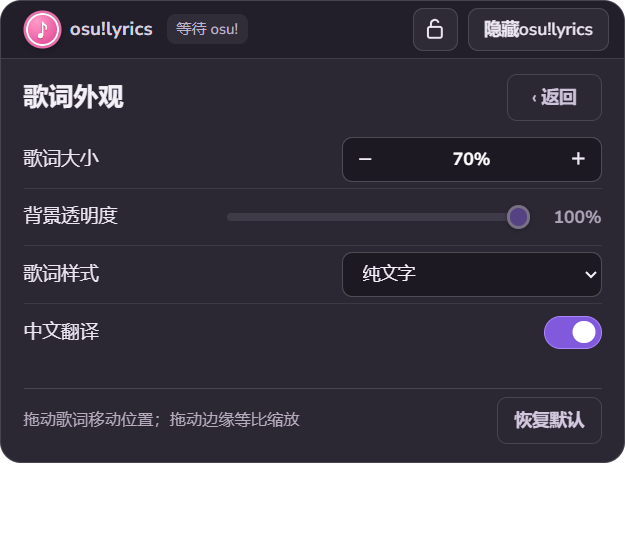
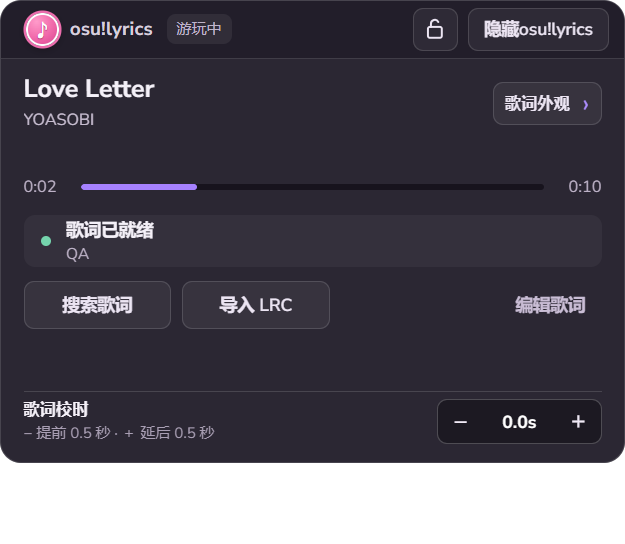
Expand lyric appearance controls

diff --git a/src/ui/combined.css b/src/ui/combined.css
@@ -18,6 +18,11 @@
   --surface-raised: #37313f;
   --border: #ffffff23;
   --muted: #c7bdd0;
+  --original-color: #fff;
+  --translation-color: #fff;
+  --background-rgb: 31, 27, 40;
+  --lyric-shadow: none;
+  --lyric-font: "Torus", "Nunito Sans", "Microsoft YaHei UI", "Segoe UI", sans-serif;
 }
 
 * { box-sizing: border-box; }
@@ -184,8 +189,16 @@ button:focus-visible, input:focus-visible, select:focus-visible { outline: 2px s
 .view-heading { height: 42px; display: flex; align-items: center; justify-content: space-between; }
 .view-heading h1 { order: -1; margin: 0; font-size: 22px; line-height: 1.2; font-weight: 720; }
 .back-button { min-width: 76px; padding: 0 12px; background: transparent; color: #cfc3db; }
+.style-view .view-heading { height: 38px; min-height: 38px; }
+.appearance-tabs { height: 34px; min-height: 34px; display: flex; gap: 4px; margin-top: 8px; border-bottom: 1px solid var(--border); }
+.appearance-tabs button { position: relative; height: 33px; padding: 0 15px; border: 0; background: transparent; color: #aea2ba; font-size: 14px; font-weight: 600; }
+.appearance-tabs button:hover { color: #f4f0f8; }
+.appearance-tabs button[aria-selected="true"] { color: #fff; }
+.appearance-tabs button[aria-selected="true"]::after { content: ""; position: absolute; bottom: -1px; left: 10px; right: 10px; height: 2px; border-radius: 2px; background: var(--accent); }
 .settings-list { margin-top: 14px; }
+.style-view .settings-list { min-height: 0; flex: 1; display: flex; flex-direction: column; margin-top: 8px; }
 .setting-row { min-height: 54px; display: grid; grid-template-columns: minmax(148px, 1fr) minmax(270px, 300px); align-items: center; gap: 12px; border-bottom: 1px solid #ffffff16; }
+.style-view .setting-row { min-height: 46px; flex: 1; }
 .setting-row:last-child { border-bottom: 0; }
 .setting-row > label { color: #ece5f3; font-size: 15px; line-height: 20px; font-weight: 500; }
 .setting-control { min-width: 0; display: flex; align-items: center; justify-content: flex-end; }
@@ -197,6 +210,14 @@ button:focus-visible, input:focus-visible, select:focus-visible { outline: 2px s
 .range-control output { min-width: 43px; color: #f5effa; font-size: 14px; font-weight: 700; text-align: right; font-variant-numeric: tabular-nums; }
 .range-control input:disabled + output { color: #ada3b8; }
 .setting-control select { width: 208px; height: 36px; padding: 0 34px 0 12px; border: 1px solid #ffffff38; border-radius: 8px; background: #1c1922; color: #f5effa; font-size: 14px; cursor: pointer; }
+.color-control { gap: 9px; }
+.color-control input[type="color"] { width: 42px; height: 36px; padding: 3px; border: 1px solid #ffffff38; border-radius: 8px; background: #1c1922; cursor: pointer; }
+.color-control input[type="color"]::-webkit-color-swatch-wrapper { padding: 0; }
+.color-control input[type="color"]::-webkit-color-swatch { border: 0; border-radius: 5px; }
+.color-control output { min-width: 70px; color: #c9bfd2; font-size: 13px; text-align: right; font-variant-numeric: tabular-nums; }
+.color-control button { height: 32px; min-width: 47px; padding: 0 8px; border: 1px solid var(--border); border-radius: 7px; background: transparent; color: #ddd3e7; font-size: 12px; }
+.color-control button:hover:not(:disabled) { border-color: #aa87ff; background: #ffffff18; }
+.color-control button:disabled { visibility: hidden; }
 .switch { width: 52px; height: 36px; display: flex; align-items: center; justify-content: flex-end; position: relative; cursor: pointer; }
 .switch input { position: absolute; inset: 0; width: 100%; height: 100%; margin: 0; opacity: 0; cursor: pointer; }
 .switch-track { width: 46px; height: 26px; position: relative; border: 1px solid #ffffff50; border-radius: 20px; background: #504858; pointer-events: none; transition: background .13s ease, border-color .13s ease; }
@@ -205,6 +226,7 @@ button:focus-visible, input:focus-visible, select:focus-visible { outline: 2px s
 .switch input:checked + .switch-track::after { transform: translateX(18px); background: #fff; }
 .switch input:focus-visible + .switch-track { outline: 2px solid #d7c5ff; outline-offset: 3px; }
 .style-footer { min-height: 48px; display: flex; align-items: center; justify-content: space-between; gap: 12px; margin-top: auto; padding-top: 9px; border-top: 1px solid var(--border); }
+.style-view .style-footer { min-height: 44px; padding-top: 7px; }
 .style-footer span { color: #b7abbe; font-size: 13px; line-height: 18px; }
 .style-footer button { flex: none; padding: 0 13px; background: transparent; color: #d5c9e0; }
 
@@ -241,24 +263,26 @@ button:focus-visible, input:focus-visible, select:focus-visible { outline: 2px s
 .panel-surface.compact .offset-row { min-height: 42px; padding-top: 6px; }
 .panel-surface.compact .view-heading { height: 38px; }
 .panel-surface.compact .view-heading h1 { font-size: 20px; }
-.panel-surface.compact .settings-list { margin-top: 8px; }
-.panel-surface.compact .setting-row { min-height: 46px; }
+.panel-surface.compact .style-view .view-heading { height: 34px; min-height: 34px; }
+.panel-surface.compact .appearance-tabs { height: 32px; min-height: 32px; margin-top: 6px; }
+.panel-surface.compact .appearance-tabs button { height: 31px; }
+.panel-surface.compact .style-view .settings-list { margin-top: 6px; }
+.panel-surface.compact .style-view .setting-row { min-height: 42px; }
 .panel-surface.compact .style-footer { min-height: 42px; padding-top: 6px; }
 .panel-surface.compact .candidate-list { margin-top: 8px; gap: 3px; }
 .panel-surface.compact .candidate { padding: 4px 10px; }
 
-.lyric-box { position: absolute; display: flex; flex-direction: column; align-items: center; justify-content: center; gap: 2px; padding: 3px 13px; border-radius: 15px; background: transparent; text-align: center; user-select: none; touch-action: none; }
+.lyric-box { position: absolute; display: flex; flex-direction: column; align-items: center; justify-content: center; gap: 2px; padding: 3px 13px; border-radius: 15px; background: transparent; font-family: var(--lyric-font); text-align: center; user-select: none; touch-action: none; transition: padding-left .16s ease; }
+.lyric-box.with-toggle { padding-left: 56px; }
+.lyric-box.align-left { align-items: flex-start; text-align: left; }
+.lyric-box.align-right { align-items: flex-end; text-align: right; }
 .lyric-box.locked { cursor: pointer; }
 .lyric-box.unlocked { cursor: move; }
 .lyric-box.editing { background: rgba(31, 27, 40, .38); outline: 1px dashed #aa88ff9c; outline-offset: -2px; }
-.lyric-box.editing.theme-glass { background: rgba(31, 27, 40, var(--opacity)); }
-.lyric-box.editing.theme-contrast { background: rgba(0, 0, 0, var(--opacity)); }
+.lyric-box.editing.theme-glass, .lyric-box.editing.theme-contrast { background: rgba(var(--background-rgb), var(--opacity)); }
 .original, .translation { max-width: 100%; flex-shrink: 0; white-space: normal; overflow-wrap: anywhere; overflow: visible; text-overflow: clip; }
-.original { color: #fff; font-size: calc(25px * var(--lyric-scale)); line-height: 1.3; font-weight: 800; text-shadow: 0 1px 2px #0009; }
-.translation { color: #fff; font-size: calc(16px * var(--lyric-scale)); line-height: 1.25; font-weight: 600; text-shadow: 0 1px 2px #0009; }
-.theme-plain .original, .theme-plain .translation { text-shadow: none; }
-.theme-glass .translation { color: #ffddee; }
-.theme-contrast .translation { color: #fff; }
+.original { color: var(--original-color); font-size: calc(25px * var(--lyric-scale)); line-height: 1.3; font-weight: 800; text-shadow: var(--lyric-shadow); }
+.translation { color: var(--translation-color); font-size: calc(16px * var(--lyric-scale)); line-height: 1.25; font-weight: 600; text-shadow: var(--lyric-shadow); }
 .resize-handles { display: none; }
 .lyric-box.editing.unlocked .resize-handles { display: block; }
 .resize-handle { position: absolute; width: 11px; height: 11px; border: 2px solid #f1e8ff; border-radius: 4px; background: #8c66ff; box-shadow: 0 0 0 2px #2d243b, 0 0 9px #8c66ff99; z-index: 4; }

diff --git a/src/ui/combined.js b/src/ui/combined.js
@@ -3,7 +3,7 @@ const $ = id => document.getElementById(id);
 let state = { connected: false, song: null, positionMs: 0, sampledAt: Date.now(), playing: false };
 let lyrics = { status: 'idle', lines: [], candidates: [], offsetMs: 0 };
 let tosu = { status: 'disconnected', installed: false };
-let settings = { scale: 100, width: 700, opacity: 0, theme: 'plain', showTranslation: true };
+let settings = { scale: 100, width: 700, opacity: 0, theme: 'plain', showTranslation: true, originalColor: null, translationColor: null, backgroundColor: null, fontStyle: 'osu', textEffect: 'auto', alignment: 'center' };
 let locked = false;
 let shown = true;
 let panelOpen = true;
@@ -15,6 +15,7 @@ let editing = false;
 let gesture = null;
 let suppressClick = false;
 let view = 'normal';
+let appearanceTab = 'basic';
 let candidatePage = 0;
 let showCandidatesAfterSearch = false;
 let measureQueued = false;
@@ -81,6 +82,12 @@ function renderCollapsedToggle() {
   if (!currentLayout) return;
   const dot = $('collapsedToggle');
   const animation = currentLayout.animation;
+  const reserveSpace = activeVisible && (animation ? animation.progress <= .5 : currentLayout.progress === 0);
+  if ($('lyricBox').classList.contains('with-toggle') !== reserveSpace) {
+    $('lyricBox').classList.toggle('with-toggle', reserveSpace);
+    queueLyricMeasure();
+    setTimeout(queueLyricMeasure, 190);
+  }
   const position = animation?.dot || { x: currentLayout.lyric.x + 16, y: currentLayout.lyric.y + 3 };
   dot.style.left = `${position.x}px`;
   dot.style.top = `${position.y}px`;
@@ -165,10 +172,32 @@ function renderControls() {
 }
 
 function renderStyle() {
-  document.documentElement.style.setProperty('--lyric-scale', String(settings.scale / 100));
-  document.documentElement.style.setProperty('--opacity', String(settings.opacity / 100));
-  $('lyricBox').classList.remove('theme-plain', 'theme-glass', 'theme-contrast');
-  $('lyricBox').classList.add(`theme-${settings.theme}`);
+  const root = document.documentElement.style;
+  root.setProperty('--lyric-scale', String(settings.scale / 100));
+  root.setProperty('--opacity', String(settings.opacity / 100));
+  const originalColor = settings.originalColor || '#ffffff';
+  const translationColor = settings.translationColor || (settings.theme === 'glass' ? '#ffddee' : '#ffffff');
+  const backgroundColor = settings.backgroundColor || (settings.theme === 'contrast' ? '#000000' : '#1f1b28');
+  root.setProperty('--original-color', originalColor);
+  root.setProperty('--translation-color', translationColor);
+  root.setProperty('--background-rgb', [1, 3, 5].map(index => parseInt(backgroundColor.slice(index, index + 2), 16)).join(', '));
+  const fonts = {
+    osu: '"Torus", "Nunito Sans", "Microsoft YaHei UI", "Segoe UI", sans-serif',
+    clean: '"Segoe UI Variable", "Segoe UI", "Microsoft YaHei UI", sans-serif',
+    serif: 'Georgia, "Yu Mincho", SimSun, serif',
+  };
+  root.setProperty('--lyric-font', fonts[settings.fontStyle] || fonts.osu);
+  const effects = {
+    auto: settings.theme === 'plain' ? 'none' : '0 1px 2px #0009',
+    none: 'none',
+    outline: '1px 0 0 #000b, -1px 0 0 #000b, 0 1px 0 #000b, 0 -1px 0 #000b',
+    shadow: '0 2px 5px #000c',
+  };
+  root.setProperty('--lyric-shadow', effects[settings.textEffect] || effects.auto);
+  const box = $('lyricBox');
+  box.classList.remove('theme-plain', 'theme-glass', 'theme-contrast', 'align-left', 'align-right');
+  box.classList.add(`theme-${settings.theme}`);
+  if (settings.alignment !== 'center') box.classList.add(`align-${settings.alignment}`);
   $('translation').hidden = !settings.showTranslation || !$('translation').textContent;
   $('scaleValue').textContent = `${settings.scale}%`;
   const transparency = 100 - settings.opacity;
@@ -178,6 +207,15 @@ function renderStyle() {
   $('opacityRange').disabled = settings.theme === 'plain';
   $('themeSelect').value = settings.theme;
   $('translationToggle').checked = settings.showTranslation;
+  for (const [name, fallback] of [['originalColor', originalColor], ['translationColor', translationColor], ['backgroundColor', backgroundColor]]) {
+    $(name).value = settings[name] || fallback;
+    $(`${name}Value`).textContent = settings[name] ? settings[name].toUpperCase() : '默认';
+    $(`${name}Default`).disabled = !settings[name];
+  }
+  $('backgroundColor').disabled = settings.theme === 'plain';
+  $('fontStyleSelect').value = settings.fontStyle;
+  $('textEffectSelect').value = settings.textEffect;
+  $('alignmentSelect').value = settings.alignment;
   queueLyricMeasure();
 }
 
@@ -186,6 +224,14 @@ function setView(next) {
   $('normalView').hidden = next !== 'normal';
   $('styleView').hidden = next !== 'style';
   $('candidateView').hidden = next !== 'candidates';
+}
+
+function setAppearanceTab(next) {
+  appearanceTab = next;
+  for (const name of ['basic', 'colors', 'typography']) {
+    $(`${name}Tab`).setAttribute('aria-selected', String(name === next));
+    $(`${name}Settings`).hidden = name !== next;
+  }
 }
 
 function renderCandidates() {
@@ -383,7 +429,17 @@ $('lockButton').addEventListener('click', () => api.overlayLock(!locked));
 $('visibilityButton').addEventListener('click', () => api.overlayShow(false));
 $('styleButton').addEventListener('click', () => setView('style'));
 $('backStyle').addEventListener('click', () => setView('normal'));
-$('resetStyle').addEventListener('click', () => api.updateOverlaySettings({ scale: 100, width: 700, opacity: 0, theme: 'plain', showTranslation: true, resetLayout: true }));
+$('resetStyle').addEventListener('click', () => api.updateOverlaySettings({ scale: 100, width: 700, opacity: 0, theme: 'plain', showTranslation: true, originalColor: null, translationColor: null, backgroundColor: null, fontStyle: 'osu', textEffect: 'auto', alignment: 'center', resetLayout: true }));
+$('basicTab').addEventListener('click', () => setAppearanceTab('basic'));
+$('colorsTab').addEventListener('click', () => setAppearanceTab('colors'));
+$('typographyTab').addEventListener('click', () => setAppearanceTab('typography'));
+for (const name of ['originalColor', 'translationColor', 'backgroundColor']) {
+  $(name).addEventListener('input', event => api.updateOverlaySettings({ [name]: event.target.value }));
+  $(`${name}Default`).addEventListener('click', () => api.updateOverlaySettings({ [name]: null }));
+}
+$('fontStyleSelect').addEventListener('change', event => api.updateOverlaySettings({ fontStyle: event.target.value }));
+$('textEffectSelect').addEventListener('change', event => api.updateOverlaySettings({ textEffect: event.target.value }));
+$('alignmentSelect').addEventListener('change', event => api.updateOverlaySettings({ alignment: event.target.value }));
 $('scaleBack').addEventListener('click', () => api.updateOverlaySettings({ scale: settings.scale - 5 }));
 $('scaleForward').addEventListener('click', () => api.updateOverlaySettings({ scale: settings.scale + 5 }));
 $('opacityRange').addEventListener('input', event => api.updateOverlaySettings({ opacity: 100 - Number(event.target.value) }));
@@ -451,6 +507,7 @@ api.initial().then(initial => {
   panelOpen = initial.panel.open;
   panelSide = initial.panel.side;
   applyLayout(initial.layout);
+  setAppearanceTab(appearanceTab);
   renderStyle(); renderControls(); renderTrack(); renderStatus(); renderCandidates(); renderLyrics(); tick();
 });
 document.fonts.ready.then(queueLyricMeasure);

diff --git a/src/ui/combined.html b/src/ui/combined.html
@@ -34,11 +34,26 @@
 
       <section id="styleView" class="panel-view style-view" hidden>
         <div class="view-heading"><button id="backStyle" class="back-button">‹ 返回</button><h1>歌词外观</h1></div>
-        <div class="settings-list">
+        <nav class="appearance-tabs" aria-label="歌词外观分类">
+          <button id="basicTab" type="button" aria-selected="true">基础</button>
+          <button id="colorsTab" type="button" aria-selected="false">颜色</button>
+          <button id="typographyTab" type="button" aria-selected="false">排版</button>
+        </nav>
+        <div id="basicSettings" class="settings-list">
           <div class="setting-row"><label>歌词大小</label><div class="setting-control"><div class="stepper large"><button id="scaleBack" aria-label="缩小歌词">−</button><output id="scaleValue">100%</output><button id="scaleForward" aria-label="放大歌词">＋</button></div></div></div>
           <div class="setting-row"><label for="opacityRange">背景透明度</label><div class="setting-control range-control"><input id="opacityRange" type="range" min="5" max="100" step="1" title="100% 表示完全透明；纯文字样式没有背景"><output id="opacityValue">100%</output></div></div>
           <div class="setting-row"><label for="themeSelect">歌词样式</label><div class="setting-control"><select id="themeSelect"><option value="plain">纯文字</option><option value="glass">柔雾</option><option value="contrast">高对比</option></select></div></div>
           <div class="setting-row"><label for="translationToggle">中文翻译</label><div class="setting-control"><label class="switch"><input id="translationToggle" type="checkbox" checked><span class="switch-track"></span></label></div></div>
+        </div>
+        <div id="colorsSettings" class="settings-list" hidden>
+          <div class="setting-row"><label for="originalColor">原文颜色</label><div class="setting-control color-control"><input id="originalColor" type="color" value="#ffffff" aria-label="原文颜色"><output id="originalColorValue">默认</output><button id="originalColorDefault" type="button">默认</button></div></div>
+          <div class="setting-row"><label for="translationColor">译文颜色</label><div class="setting-control color-control"><input id="translationColor" type="color" value="#ffffff" aria-label="译文颜色"><output id="translationColorValue">默认</output><button id="translationColorDefault" type="button">默认</button></div></div>
+          <div class="setting-row"><label for="backgroundColor">背景颜色</label><div class="setting-control color-control"><input id="backgroundColor" type="color" value="#1f1b28" aria-label="背景颜色"><output id="backgroundColorValue">默认</output><button id="backgroundColorDefault" type="button">默认</button></div></div>
+        </div>
+        <div id="typographySettings" class="settings-list" hidden>
+          <div class="setting-row"><label for="fontStyleSelect">字体风格</label><div class="setting-control"><select id="fontStyleSelect"><option value="osu">osu! 圆润</option><option value="clean">清晰无衬线</option><option value="serif">经典衬线</option></select></div></div>
+          <div class="setting-row"><label for="textEffectSelect">文字效果</label><div class="setting-control"><select id="textEffectSelect"><option value="auto">跟随样式</option><option value="none">无</option><option value="outline">清晰描边</option><option value="shadow">柔和阴影</option></select></div></div>
+          <div class="setting-row"><label for="alignmentSelect">对齐方式</label><div class="setting-control"><select id="alignmentSelect"><option value="center">居中</option><option value="left">靠左</option><option value="right">靠右</option></select></div></div>
         </div>
         <div class="style-footer"><span>拖动歌词移动位置；拖动边缘等比缩放</span><button id="resetStyle">恢复默认</button></div>
       </section>

diff --git a/docs/interface-design.md b/docs/interface-design.md
@@ -1,6 +1,6 @@
 # 悬浮歌词控制面板设计
 
-目标：在展开的面板中看清歌曲、歌词状态与外观参数；收起后只留下歌词。
+目标：在展开的面板中看清歌曲、歌词状态与外观参数；收起后只留下歌词与展开音符。
 
 ## 原界面的三个结构问题
 
@@ -15,7 +15,7 @@
 面板顶部空白区域承担移动手柄；边框的八个方向承担缩放手柄。两种手势沿用歌词的位置和缩放计算，因而拖动标题栏会带着歌词一起走，边框缩放会让歌词与面板一起改变尺寸。面板尺寸单独持久化，范围是 500×370 至 1200×600 像素；接近下限时只收紧间距和字号层次，保留正常可读的控件，不出现纵向滚动条。点击“锁定位置”后，两种手势都不可用。
 
 - **主界面第一眼：** 可读两行的歌名；第二眼：歌手、进度与歌词状态；第三眼：获取歌词、日常控制和校时。
-- **外观页第一眼：** “歌词外观”；第二眼：按固定标签列和控件右边界排列的大小、透明度、样式、翻译；第三眼：操作提示与恢复默认。
+- **外观页第一眼：** “歌词外观”；第二眼：基础、颜色和排版的语义分栏；第三眼：当前分栏内对齐的设置行，以及操作提示与恢复默认。
 
 ## 删减与重新分配
 
@@ -23,7 +23,7 @@
 - 搜索和导入保留在同一操作区域；编辑放在右侧，默认仅作轻量文字按钮。歌词缺失或获取失败时才强调搜索。查找中、就绪、缺失和失败共用一个固定高度的状态位，避免整页跳动。
 - 进入歌词候选页后，如果曲目 key 改变，立即返回当前新歌的主界面；同一歌曲从选歌预览进入游玩不会触发返回。
 - 锁定与隐藏放在顶栏，外观入口贴近歌名；获取歌词与校时仍留在各自的内容位置。图标锁有选中状态，校时明确显示当前偏移以及减号提前、加号延后的意义。
-- 外观四项共用标签左边界和控件右边界。大小和透明度的当前值直接贴近控件；操作提示降为辅助信息，恢复默认留在页脚。真实悬浮歌词就是即时预览，因此没有重复造一个预览卡片。
+- 外观基础页保留大小、透明度、样式与翻译；新增颜色页分别处理原文、译文和背景，排版页处理字体风格、文字效果和对齐。每页仍共用标签左边界和控件右边界，面板尺寸不因切换而变化。操作提示降为辅助信息，恢复默认留在页脚。真实悬浮歌词就是即时预览，因此没有重复造一个预览卡片。
 - 界面的“背景透明度”以用户所见为准：100% 表示完全透明；内部保存格式保持原有不透明度数值，因此升级不会改变已有外观。纯文字模式没有背景，滑块显示为不可操作状态。
 - 展开面板比旧版更高，会多占一部分游戏画面；收起后仍只显示歌词。这换来正常观看距离下可读的文字和舒适的点击区域。
 
@@ -35,10 +35,14 @@
 
 ## 验证
 
-在实际 Electron 窗口中检查了两页、长歌名、查找中、未匹配、失败、候选结果、歌词缩放 70%/80%/100% 和页面切换。外观控件点击后实时生效；恢复默认、返回、收起与点击歌词重新展开通过运行时检查。系统级鼠标实测确认：拖标题栏只移动歌词与面板；拖右边框让面板由 560×420 变为 616×462，同时歌词由 560×64 变为 616×70；拖左边框再一起缩回。拖上下边框时，被拖的一边跟随指针，对边保持原位。500×370 像素下主界面、外观页和候选页都无纵向滚动条。还把实窗截图叠在本机 osu! 画面截图上检查了阅读对比度；这张合成画面仅作视觉检查，未当作真实游戏叠加运行的证明。
+在实际 Electron 窗口中检查了主界面、外观三个分栏、长歌名、查找中、未匹配、失败、候选结果、歌词缩放 70%/80%/100% 和页面切换。颜色、字体、描边和对齐调整会实时作用到歌词；单色重置、全局恢复默认及本地持久化均经过运行时检查。靠左文字在面板收起时为粉色音符预留空间。系统级鼠标实测确认：拖标题栏只移动歌词与面板；拖右边框让面板由 560×420 变为 616×462，同时歌词由 560×64 变为 616×70；拖左边框再一起缩回。拖上下边框时，被拖的一边跟随指针，对边保持原位。500×370 像素下主界面、外观分栏和候选页都无纵向滚动条。还把实窗截图叠在本机 osu! 画面截图上检查了阅读对比度；这张合成画面仅作视觉检查，未当作真实游戏叠加运行的证明。
 
 ![主界面](screenshots/main.png)
 
 ![外观页](screenshots/appearance.png)
+
+![颜色设置](screenshots/colors.png)
+
+![排版设置](screenshots/typography.png)
 
 ![缩小后的外观页](screenshots/compact-appearance.png)

diff --git a/README.md b/README.md
@@ -6,7 +6,7 @@
 
 优先双击 `dist/osu-lyrics-0.4.6-portable.exe`；它不需要另装 Node.js。源码方式可双击 [启动歌词工具.cmd](启动歌词工具.cmd)。首次运行时如尚未安装 tosu，点击“安装”，工具会下载已固定版本的 tosu 并校验 SHA-256。以后启动时会自动连接或启动已安装的 tosu。
 
-当前新增的粉色音符收起动画和文案仍在源码开发阶段，暂未重新打包。要体验这些改动请运行 [启动歌词工具.cmd](启动歌词工具.cmd)；`dist` 中的 0.4.6 EXE 是上一次打包的版本。
+当前新增的粉色音符动画、界面排版和更多外观设置仍在源码开发阶段，暂未重新打包。要体验这些改动请运行 [启动歌词工具.cmd](启动歌词工具.cmd)；`dist` 中的 0.4.6 EXE 是上一次打包的版本。
 
 此电脑已安装 Node.js，因此可以直接运行。也可以在项目目录执行 `npm install` 和 `npm start`。
 
@@ -18,7 +18,7 @@
 
 按 **Ctrl+Alt+Shift+L** 可完整隐藏／显示悬浮歌词。Windows 通知区域的音符图标右键菜单也有“隐藏osu!lyrics／显示osu!lyrics”“打开小窗口”和“退出”。隐藏 osu!lyrics 不会清除锁定状态或外观配置；需要退出整个工具时使用托盘菜单。
 
-“歌词外观”可调歌词大小、背景透明度、样式与中文翻译。透明度 100% 表示背景完全透明；纯文字样式没有背景，也没有文字阴影。长句会换行并让歌词区域增高，不再在两侧显示省略号。首次展开时面板宽度随歌词变化，通常为 560–720 像素；之后可从边框单独调整。位置、样式、面板尺寸、锁定、显示和控制区展开状态保存在 `%APPDATA%\osu-lyrics-companion\windows.json`，重启后继续使用。两页的布局取舍与截图见[界面设计说明](docs/interface-design.md)。视觉参考了 osu!lazer 的[设置界面](https://osu.ppy.sh/home/changelog/lazer/2023.1229.0)及其[官方配色](https://github.com/ppy/osu/blob/master/osu.Game/Graphics/OsuColour.cs)。便携版附带开源的 Nunito Sans 字体；Torus 仅在用户系统已有时使用，未从游戏复制。
+“歌词外观”分为基础、颜色、排版三页：基础页调整大小、背景透明度、样式和中文翻译；颜色页可分别指定日文原文、中文译文和背景颜色；排版页可选字体风格、文字效果和对齐方式。每种颜色可单独恢复默认。透明度 100% 表示背景完全透明；纯文字样式默认没有背景或文字阴影，但可以主动选择文字效果。长句会换行并让歌词区域增高，不再在两侧显示省略号。首次展开时面板宽度随歌词变化，通常为 560–720 像素；之后可从边框单独调整。位置、颜色、排版、面板尺寸、锁定、显示和控制区展开状态保存在 `%APPDATA%\osu-lyrics-companion\windows.json`，重启后继续使用。两页的布局取舍与截图见[界面设计说明](docs/interface-design.md)。视觉参考了 osu!lazer 的[设置界面](https://osu.ppy.sh/home/changelog/lazer/2023.1229.0)及其[官方配色](https://github.com/ppy/osu/blob/master/osu.Game/Graphics/OsuColour.cs)。便携版附带开源的 Nunito Sans 字体；Torus 仅在用户系统已有时使用，未从游戏复制。
 
 把 osu!lazer 设为无边框或窗口模式，歌词窗口会尽量保持置顶。独占全屏可能遮住外部窗口。歌词区域可点击，因此它覆盖的区域会接收鼠标点击；可以拖到不影响打图的位置。
 
